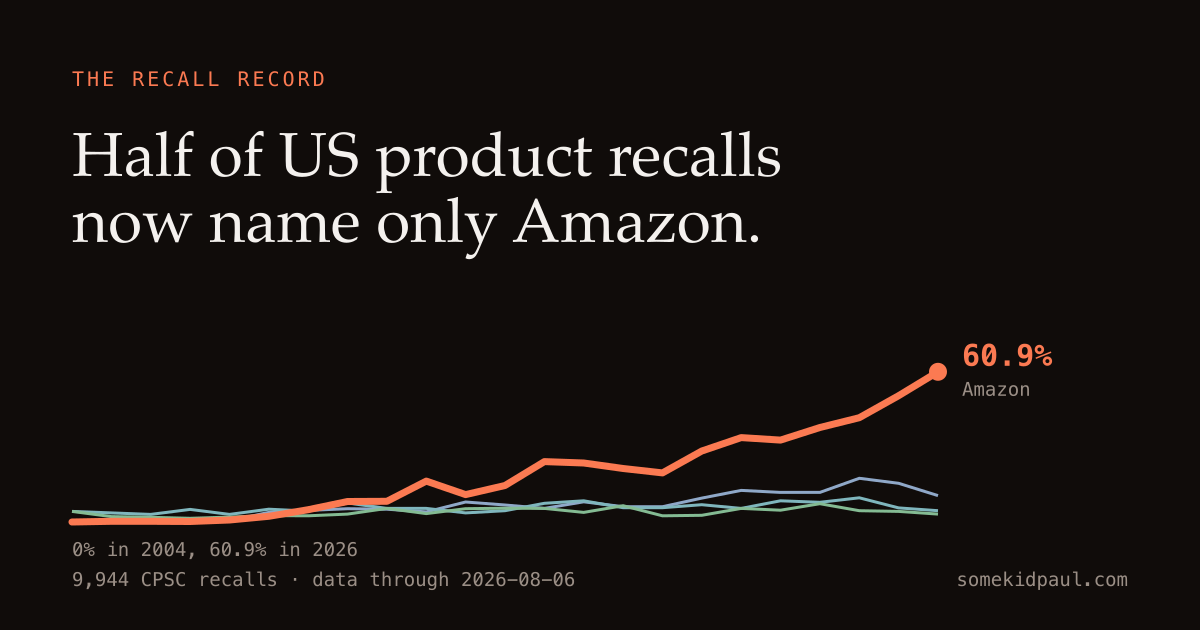
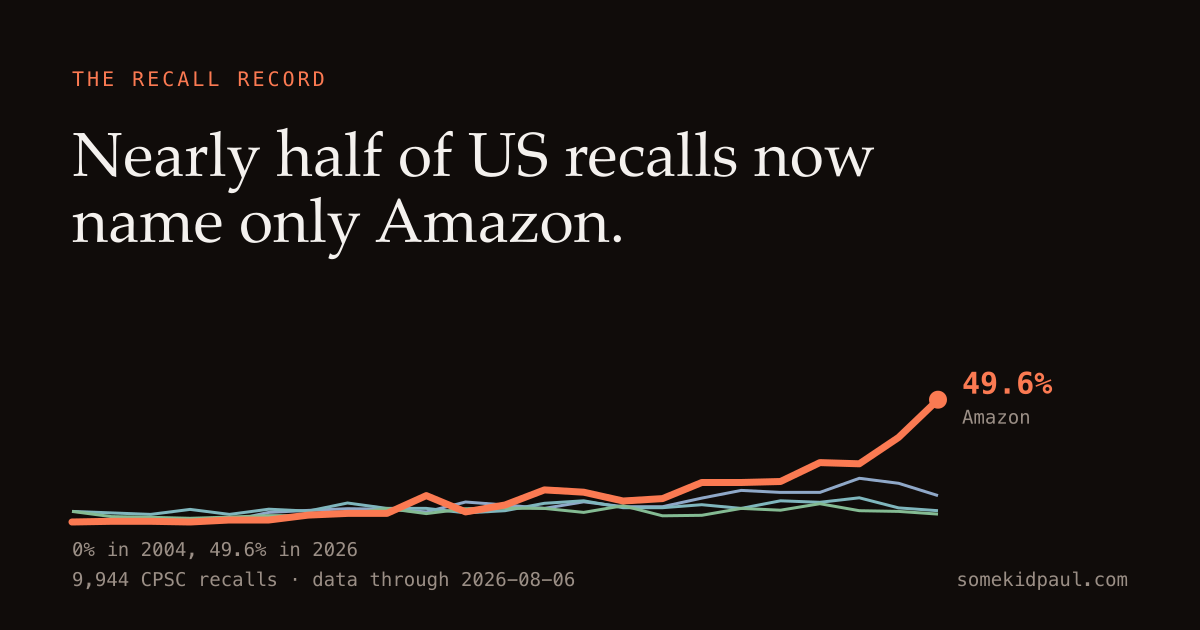
Open the chart on the measure the headline argues
Paul could not work out what the "Amazon named / Only Amazon named" control
meant, twice, after it had already been relabelled. The labels were not the
problem.

The headline is amazonOnly: "Nearly half of every product recall in America is
something you could only buy on Amazon", at 49.6%. The chart initialised
soleOnly to false, so it opened on the OTHER measure and drew a line ending at
60.9%. A reader took in the largest number on the page, scrolled, and met a
different number 11.3 points away with nothing connecting them, under a toggle
whose labels only parse once you already understand the distinction. The chart
was answering a question the page had not asked.

Opening on soleOnly lands the line on the headline figure and turns the control
into what it was always for: count it the looser way and the trend is still
there, in fact it is higher.

THE SHARE CARD WAS WORSE, and it is the surface strangers see first. It drew
and printed retailers.amazon under a headline reading "now name only Amazon",
so it showed 60.9% for a claim about 49.6%. That was already wrong before
today, independent of the default. Its headline word was also hardcoded to
"Half" against a figure that reads 49.6% and crosses fifty in both directions,
so a quiet Friday rebuild would have published an overstatement with nobody
watching. Both now derive from amazonOnly, and og:image:alt with them.

The section intro said "Amazon goes from nothing to sixty percent", describing
[…]

Changed region(s): [[0.0617, 0.2111, 0.74, 0.4222], [0.185, 0.5429, 0.8942, 0.8746], [0.4933, 0.7841, 0.555, 0.8143]]

diff --git a/src/RetailerChart.tsx b/src/RetailerChart.tsx
@@ -128,7 +128,23 @@ function topOf(G: Geom, d: Row, soleOnly: boolean, showControl: boolean) {
 
 export default function RetailerChart() {
   const [showControl, setShowControl] = useState(false)
-  const [soleOnly, setSoleOnly] = useState(false)
+  /**
+   * OPENS ON THE MEASURE THE HEADLINE USES. It defaulted to false, and that was
+   * a real defect rather than a preference.
+   *
+   * The headline is amazonOnly: "Nearly half of every product recall in America
+   * is something you could only buy on Amazon", printed at 49.6%. The chart then
+   * opened on the OTHER measure and drew a line ending at 60.9%. A reader took
+   * in one number in the largest type on the page, scrolled, and met a different
+   * number 11.3 points away with nothing connecting them, under a control whose
+   * labels only make sense once you already understand the distinction.
+   *
+   * No wording fixes that. The chart was answering a question the page had not
+   * asked. Opening on soleOnly means the line lands on the headline figure, and
+   * the toggle stops being a puzzle and becomes what it was always for: count it
+   * the looser way and the trend is still there, in fact it is higher.
+   */
+  const [soleOnly, setSoleOnly] = useState(true)
   const [hover, setHover] = useState<Row | null>(null)
   const svgRef = useRef<SVGSVGElement>(null)
 

diff --git a/src/data.test.ts b/src/data.test.ts
@@ -169,6 +169,29 @@ describe('published figures: internal consistency', () => {
   })
 })
 
+describe('the share card agrees with the page', () => {
+  const html = readFileSync(join(process.cwd(), 'index.html'), 'utf8')
+  const alt = (html.match(/og:image:alt" content="([^"]*)"/) || [])[1] ?? ''
+  const last = data.series.at(-1)!
+
+  it('og:image:alt quotes the headline measure, not the other one', () => {
+    /* The card drew and printed `retailers.amazon` under a headline reading
+       "name only Amazon", which is a different measure. It showed 60.9% for a
+       claim about 49.6%. Whatever else changes, the number on the social card
+       has to be the number the page argues. */
+    expect(alt.length).toBeGreaterThan(0)
+    expect(alt, 'alt text should carry the sole-retailer figure').toContain(`${last.amazonOnly}%`)
+  })
+
+  it('og:image:alt does not quote the named-at-all figure', () => {
+    if (last.retailers.amazon === last.amazonOnly) return // nothing to distinguish
+    expect(
+      alt.includes(`${last.retailers.amazon}%`),
+      `alt text still contains ${last.retailers.amazon}%, the measure the headline does NOT use`,
+    ).toBe(false)
+  })
+})
+
 describe('the origin split (second finding)', () => {
   const years = data.series.filter((s) => s.origin && s.origin.soleChina != null)
 

diff --git a/src/App.tsx b/src/App.tsx
@@ -68,9 +68,15 @@ export default function App() {
           Amazon is climbing. Everyone else is flat.
         </h3>
         <p className="arrive mt-5 mb-12 max-w-[62ch] text-[19px] leading-[1.6] text-[var(--color-ink-soft)]">
+          {/* DERIVED, because this sentence has already been wrong once. It read
+              "to sixty percent", which described the measure the chart used to
+              open on. Flipping the default to match the headline left the prose
+              describing a line the reader was no longer looking at. Computed
+              from the same figure the chart draws, so the two cannot drift
+              apart again. */}
           Every US product recall since {first.year}, grouped by which store the notice
-          mentions. Amazon goes from nothing to sixty percent. Walmart rises, then drops back.
-          Target and Home Depot barely move in twenty-two years.
+          mentions. Amazon goes from nothing to {last.amazonOnly}%. Walmart rises, then drops
+          back. Target and Home Depot barely move in twenty-two years.
         </p>
         <RetailerChart />
       </section>

diff --git a/index.html b/index.html
@@ -25,7 +25,7 @@
       content="In 2015 it was one in fourteen. This year it is nearly one in two. The obvious objection is that everyone shops online now, and the data does not support it."
     />
     <meta property="og:image" content="https://recallrecord.com/og.png" />
-    <meta property="og:image:alt" content="A line chart showing Amazon's share of US product recalls rising from 0% in 2004 to 60.9% in 2026 while Walmart, Target and Home Depot stay flat." />
+    <meta property="og:image:alt" content="A line chart showing the share of US product recalls that name Amazon as the only store, rising from 0% in 2004 to 49.6% in 2026 while Walmart, Target and Home Depot stay flat." />
 
     <meta name="twitter:card" content="summary_large_image" />
     <meta name="twitter:title" content="Nearly half of US product recalls now name only Amazon" />
